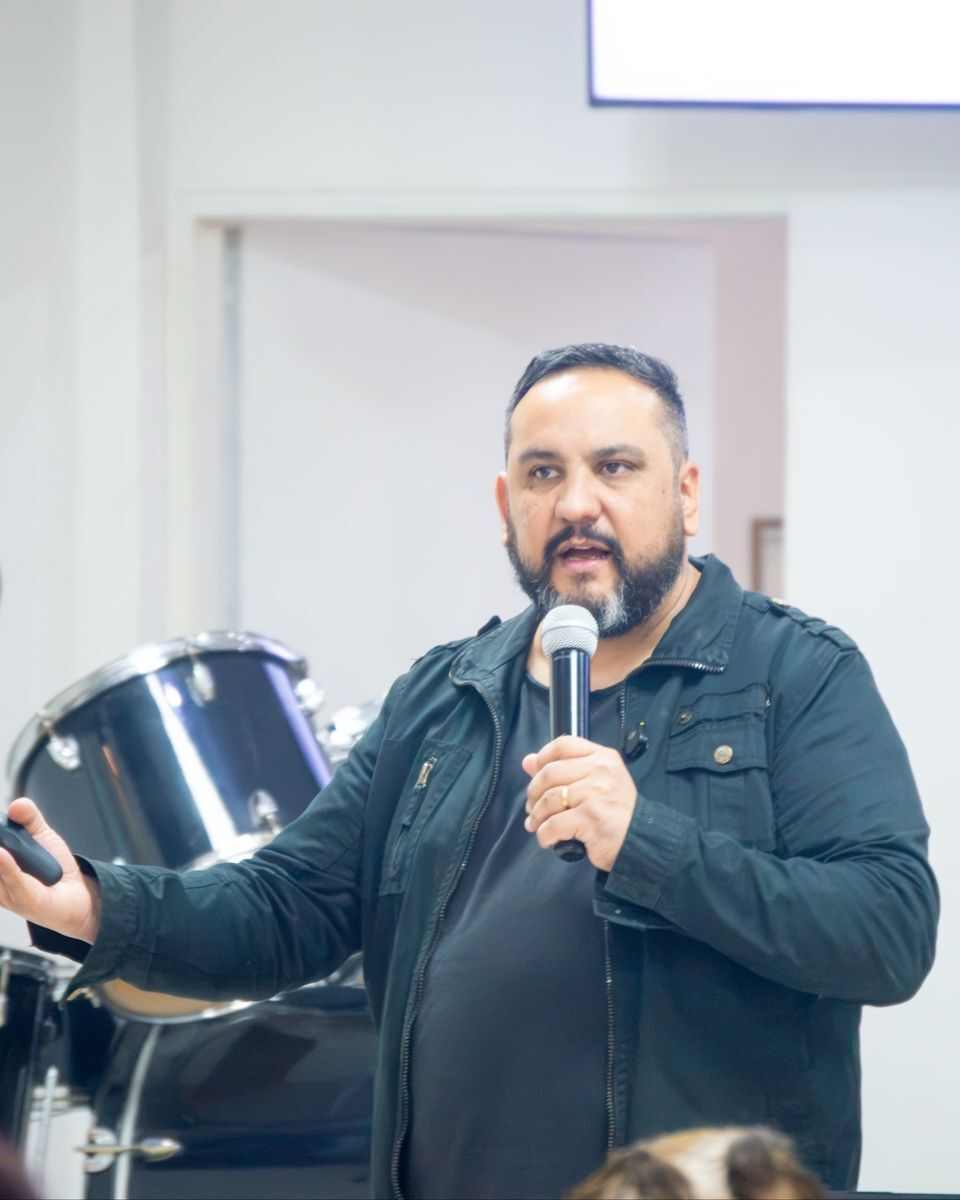
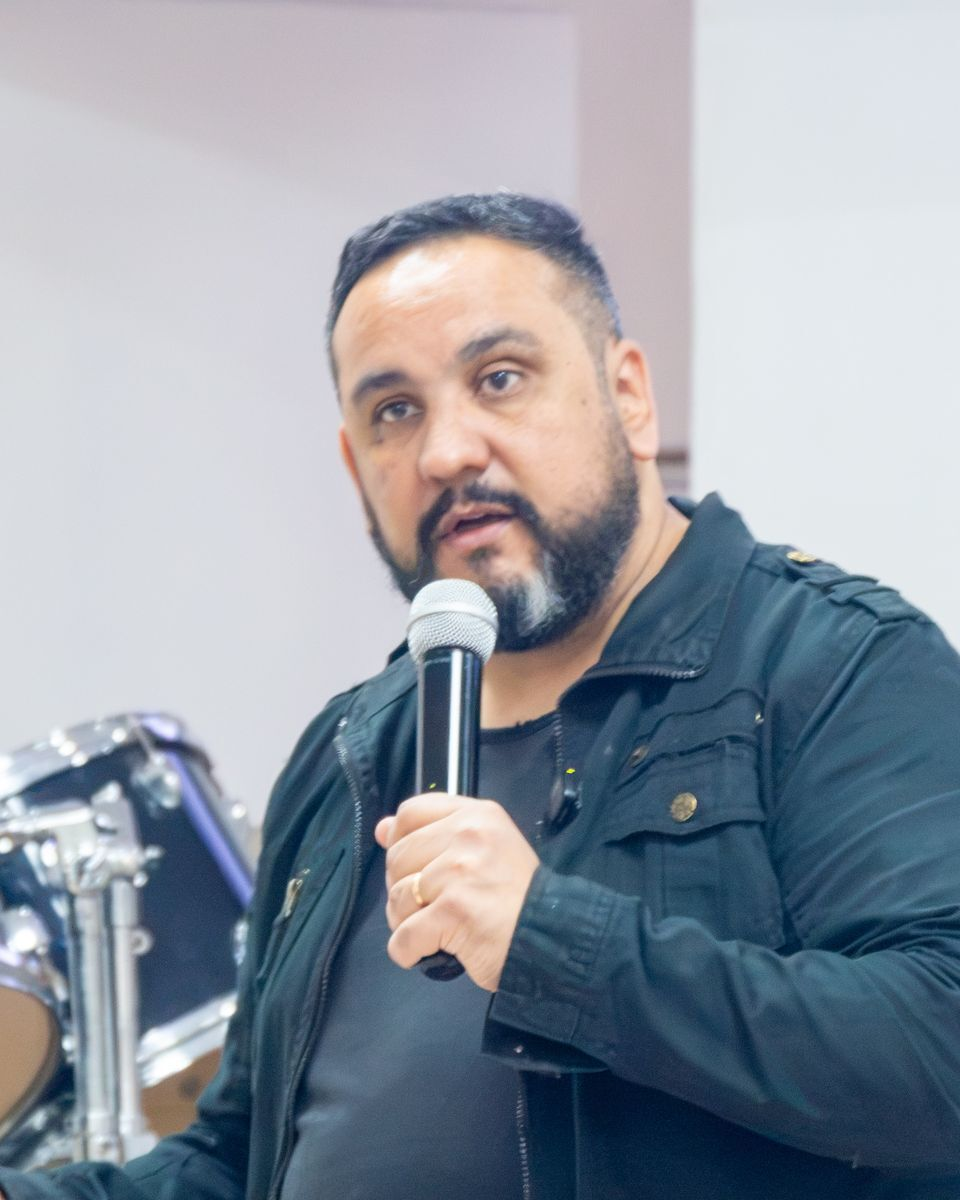
feat(sitio): carrusel de Elías con 5 fotos y más grande
- Se reduce de 10 a 5 fotos, todas de saco y con encuadres más cerrados sobre
  cara y hombros (public/elias/seminario-01..05.jpg).
- Se ensancha la columna de la foto en "Sobre Elías" y en /quien-soy
  (0.85fr/1.55fr → 1.1fr/1.5fr) y el máximo en celular pasa de max-w-xs a
  max-w-sm: en escritorio el carrusel mide 388×518 px en vez de 325×439.
- FOTOS_PERFIL actualizada con las 5 fotos y sus alt.

diff --git a/src/utils/perfil-profesional.ts b/src/utils/perfil-profesional.ts
@@ -10,20 +10,16 @@ import { Video, Users, MapPin } from 'lucide-react'
 
 // Fotos de Elias que rotan en el carrusel de la landing y de /quien-soy (componente
 // FotoElias), en el orden en que se muestran. Son de un seminario presencial, recortadas a
-// 4:5 (960×1200) y sin metadatos; alternan saco y buzo para que ninguna se repita seguida.
+// 4:5 (960×1200) y sin metadatos; son cinco, con encuadres cerrados sobre él, y ninguna
+// foto parecida va pegada a otra.
 // Para sumar, quitar o reordenar alcanza con tocar esta lista y los archivos de
 // public/elias/ — las dos páginas la toman de este único lugar.
 export const FOTOS_PERFIL = [
   { src: '/elias/seminario-01.jpg', alt: 'Elías explicando con el micrófono en una mano y la otra abierta, durante un seminario' },
-  { src: '/elias/seminario-02.jpg', alt: 'Elías señalando al público con el control de las diapositivas, micrófono en mano' },
-  { src: '/elias/seminario-03.jpg', alt: 'Elías con un brazo extendido mientras explica un tema ante el auditorio' },
-  { src: '/elias/seminario-04.jpg', alt: 'Elías mirando a cámara con el micrófono en la mano durante una charla' },
+  { src: '/elias/seminario-02.jpg', alt: 'Elías de pie con el micrófono y el control de las diapositivas durante una charla' },
+  { src: '/elias/seminario-03.jpg', alt: 'Elías con el micrófono en la mano, mirando al público durante una charla' },
+  { src: '/elias/seminario-04.jpg', alt: 'Elías hablando en un seminario, micrófono en mano' },
   { src: '/elias/seminario-05.jpg', alt: 'Elías hablando con el micrófono, de perfil, en un seminario' },
-  { src: '/elias/seminario-06.jpg', alt: 'Elías gesticulando con una mano mientras expone' },
-  { src: '/elias/seminario-07.jpg', alt: 'Elías de pie con el micrófono y el control de las diapositivas durante una charla' },
-  { src: '/elias/seminario-08.jpg', alt: 'Elías señalando el pizarrón mientras explica ante el público' },
-  { src: '/elias/seminario-09.jpg', alt: 'Elías con la palma abierta, atento al público durante una charla' },
-  { src: '/elias/seminario-10.jpg', alt: 'Elías hablando en un seminario, micrófono en mano' },
 ]
 
 // Año en que se recibió. Los años de ejercicio se calculan a partir de ahí en vez de

diff --git a/src/components/CarruselFotos.tsx b/src/components/CarruselFotos.tsx
@@ -18,6 +18,8 @@ const sinMovimiento = () => window.matchMedia('(prefers-reduced-motion: reduce)'
 // Pista con scroll-snap nativo: el deslizar con el dedo, la rueda y el trackpad funcionan
 // sin código, y las flechas y los puntos sólo reposicionan el scroll. Cada diapositiva mide
 // exactamente el ancho de la pista, así que la foto i empieza en i × clientWidth.
+// El ancho lo decide quien lo usa (ver FotoElias y las grillas de las dos páginas); con
+// fotos de 960 px nítidas hasta ~480 px de ancho en pantallas de doble densidad.
 //
 // Avanza sola cada INTERVALO_MS, salvo con "reducir movimiento" activado, y se detiene
 // mientras el puntero o el foco están encima (WCAG 2.2.2). Al llegar a la última vuelve a

diff --git a/src/app/page.tsx b/src/app/page.tsx
@@ -61,7 +61,7 @@ export default function LandingPage() {
           utils/perfil-profesional.ts. */}
       <section className="border-b border-border">
         <div className="max-w-5xl mx-auto px-6 py-20">
-          <div className="grid grid-cols-1 md:grid-cols-[minmax(0,0.85fr)_minmax(0,1.55fr)] gap-12 items-center">
+          <div className="grid grid-cols-1 md:grid-cols-[minmax(0,1.1fr)_minmax(0,1.5fr)] gap-12 items-center">
             <FotoElias />
 
             <div>

diff --git a/src/app/quien-soy/page.tsx b/src/app/quien-soy/page.tsx
@@ -45,7 +45,7 @@ export default async function QuienSoyPage() {
 
       {/* PRESENTACIÓN */}
       <section className="border-b border-border">
-        <div className="max-w-5xl mx-auto px-6 pt-16 pb-16 grid grid-cols-1 md:grid-cols-[minmax(0,0.85fr)_minmax(0,1.55fr)] gap-12 items-center">
+        <div className="max-w-5xl mx-auto px-6 pt-16 pb-16 grid grid-cols-1 md:grid-cols-[minmax(0,1.1fr)_minmax(0,1.5fr)] gap-12 items-center">
           <FotoElias />
 
           <div>

diff --git a/src/components/FotoElias.tsx b/src/components/FotoElias.tsx
@@ -12,7 +12,7 @@ export function FotoElias({ className }: { className?: string }) {
     <CarruselFotos
       fotos={FOTOS_PERFIL}
       etiqueta="Fotos de Elías en charlas y seminarios"
-      className={cn('mx-auto max-w-xs md:mx-0 md:max-w-none', className)}
+      className={cn('mx-auto max-w-sm md:mx-0 md:max-w-none', className)}
     />
   )
 }
